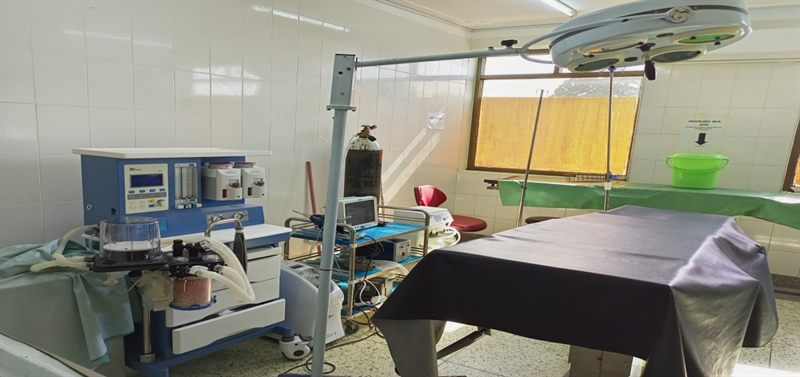
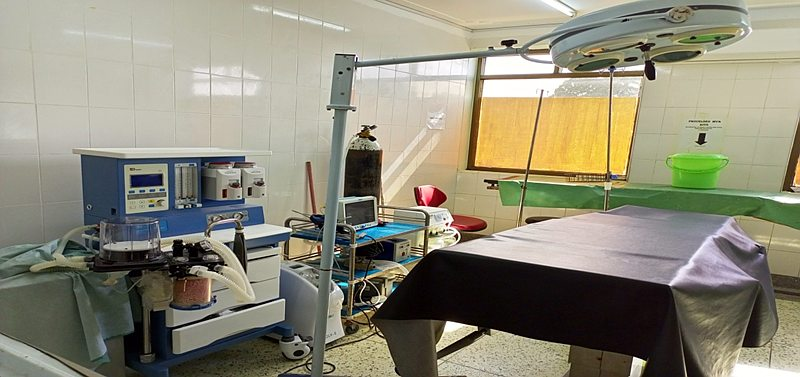
Better crops and colour for the hospital's photos
All eight photos are processed again from the originals in the
hospital's profile:

- Crops: the building leaves out a parked truck and the razor-wire
  fence (the homepage hero now shows the building and the ambulance);
  the ultrasound room leaves out a cluttered desk; the neonatal unit
  leaves out a shelf and boxes
- Colour: levels stretched to the full range, a gentle shadow lift,
  the green or blue cast of room lighting taken out, a touch of warmth
  and saturation, and light sharpening after resizing

Nothing is added or removed inside the frame; CREDITS.md says so.
Image sizes on the homepage and About page follow the new crops.
before-after/6-photos-enhanced-*.jpg show each photo before and after.

diff --git a/about/index.html b/about/index.html
@@ -281,7 +281,7 @@
           <p style="margin-top:1.5rem"><a href="/departments/" class="text-link">Our departments <svg class="icon" aria-hidden="true"><use href="#i-arrow" /></svg></a></p>
         </div>
         <div class="about-logo about-logo--wide">
-          <img src="/assets/photos/hospital-exterior-1600.jpg" srcset="/assets/photos/hospital-exterior-800.jpg 800w, /assets/photos/hospital-exterior-1600.jpg 1600w" sizes="(max-width: 1024px) 100vw, 45vw" alt="The Life Care Hospital building in Nsambia, with the hospital ambulance parked outside." width="1600" height="720" loading="lazy" style="object-position: 30% 50%" />
+          <img src="/assets/photos/hospital-exterior-1600.jpg" srcset="/assets/photos/hospital-exterior-800.jpg 800w, /assets/photos/hospital-exterior-1600.jpg 1600w" sizes="(max-width: 1024px) 100vw, 45vw" alt="The Life Care Hospital building in Nsambia, with the hospital ambulance parked outside." width="1600" height="1177" loading="lazy" />
         </div>
       </div>
     </section>
@@ -345,7 +345,7 @@
             <figcaption>X-ray room</figcaption>
           </figure>
           <figure>
-            <img src="/assets/photos/neonatal-unit-800.jpg" alt="An incubator, a baby warmer and monitoring equipment in the Neonatal ICU." width="800" height="599" loading="lazy" style="object-position: 30% 50%" />
+            <img src="/assets/photos/neonatal-unit-800.jpg" alt="An incubator, a baby warmer and monitoring equipment in the Neonatal ICU." width="800" height="675" loading="lazy" style="object-position: 25% 50%" />
             <figcaption>Neonatal ICU</figcaption>
           </figure>
         </div>

diff --git a/index.html b/index.html
@@ -394,7 +394,7 @@
 
   <main id="main">
     <section class="hero" aria-labelledby="hero-title">
-      <img class="hero__bg" src="/assets/photos/hospital-exterior-1600.jpg" srcset="/assets/photos/hospital-exterior-800.jpg 800w, /assets/photos/hospital-exterior-1600.jpg 1600w" sizes="100vw" alt="The Life Care Hospital building in Nsambia, with the hospital ambulance parked outside." width="1600" height="720" fetchpriority="high" />
+      <img class="hero__bg" src="/assets/photos/hospital-exterior-1600.jpg" srcset="/assets/photos/hospital-exterior-800.jpg 800w, /assets/photos/hospital-exterior-1600.jpg 1600w" sizes="100vw" alt="The Life Care Hospital building in Nsambia, with the hospital ambulance parked outside." width="1600" height="1177" fetchpriority="high" />
       <div class="container hero__inner">
         <h1 id="hero-title">We care for your life</h1>
         <p class="lead">Emergency and maternity care day and night, specialist clinics, surgery, a laboratory, scans and a pharmacy, at Life Care Hospital in Arua.</p>

diff --git a/assets/photos/CREDITS.md b/assets/photos/CREDITS.md
@@ -3,11 +3,12 @@
 ## The hospital's own photographs
 
 These come from the hospital's profile document (LIFECARE PROFILE 2025.docx), shared by the hospital
-administrator. They were cropped and resized only.
+administrator. They were cropped, resized and colour-corrected (levels, white balance, a little
+saturation and sharpening), with nothing added or removed inside the frame.
 
 | File | Used for | Shows |
 | --- | --- | --- |
-| hospital-exterior | Homepage hero, About | The hospital building with the ambulance outside |
+| hospital-exterior | Homepage hero, About | The hospital building with the ambulance outside (cropped to leave out a parked truck and the boundary fence) |
 | waiting-area | About gallery | The waiting area |
 | corridor | About gallery | A covered walkway (only an 800 px file: the original is 446 px wide) |
 | x-ray-room | About gallery | The X-ray room |
